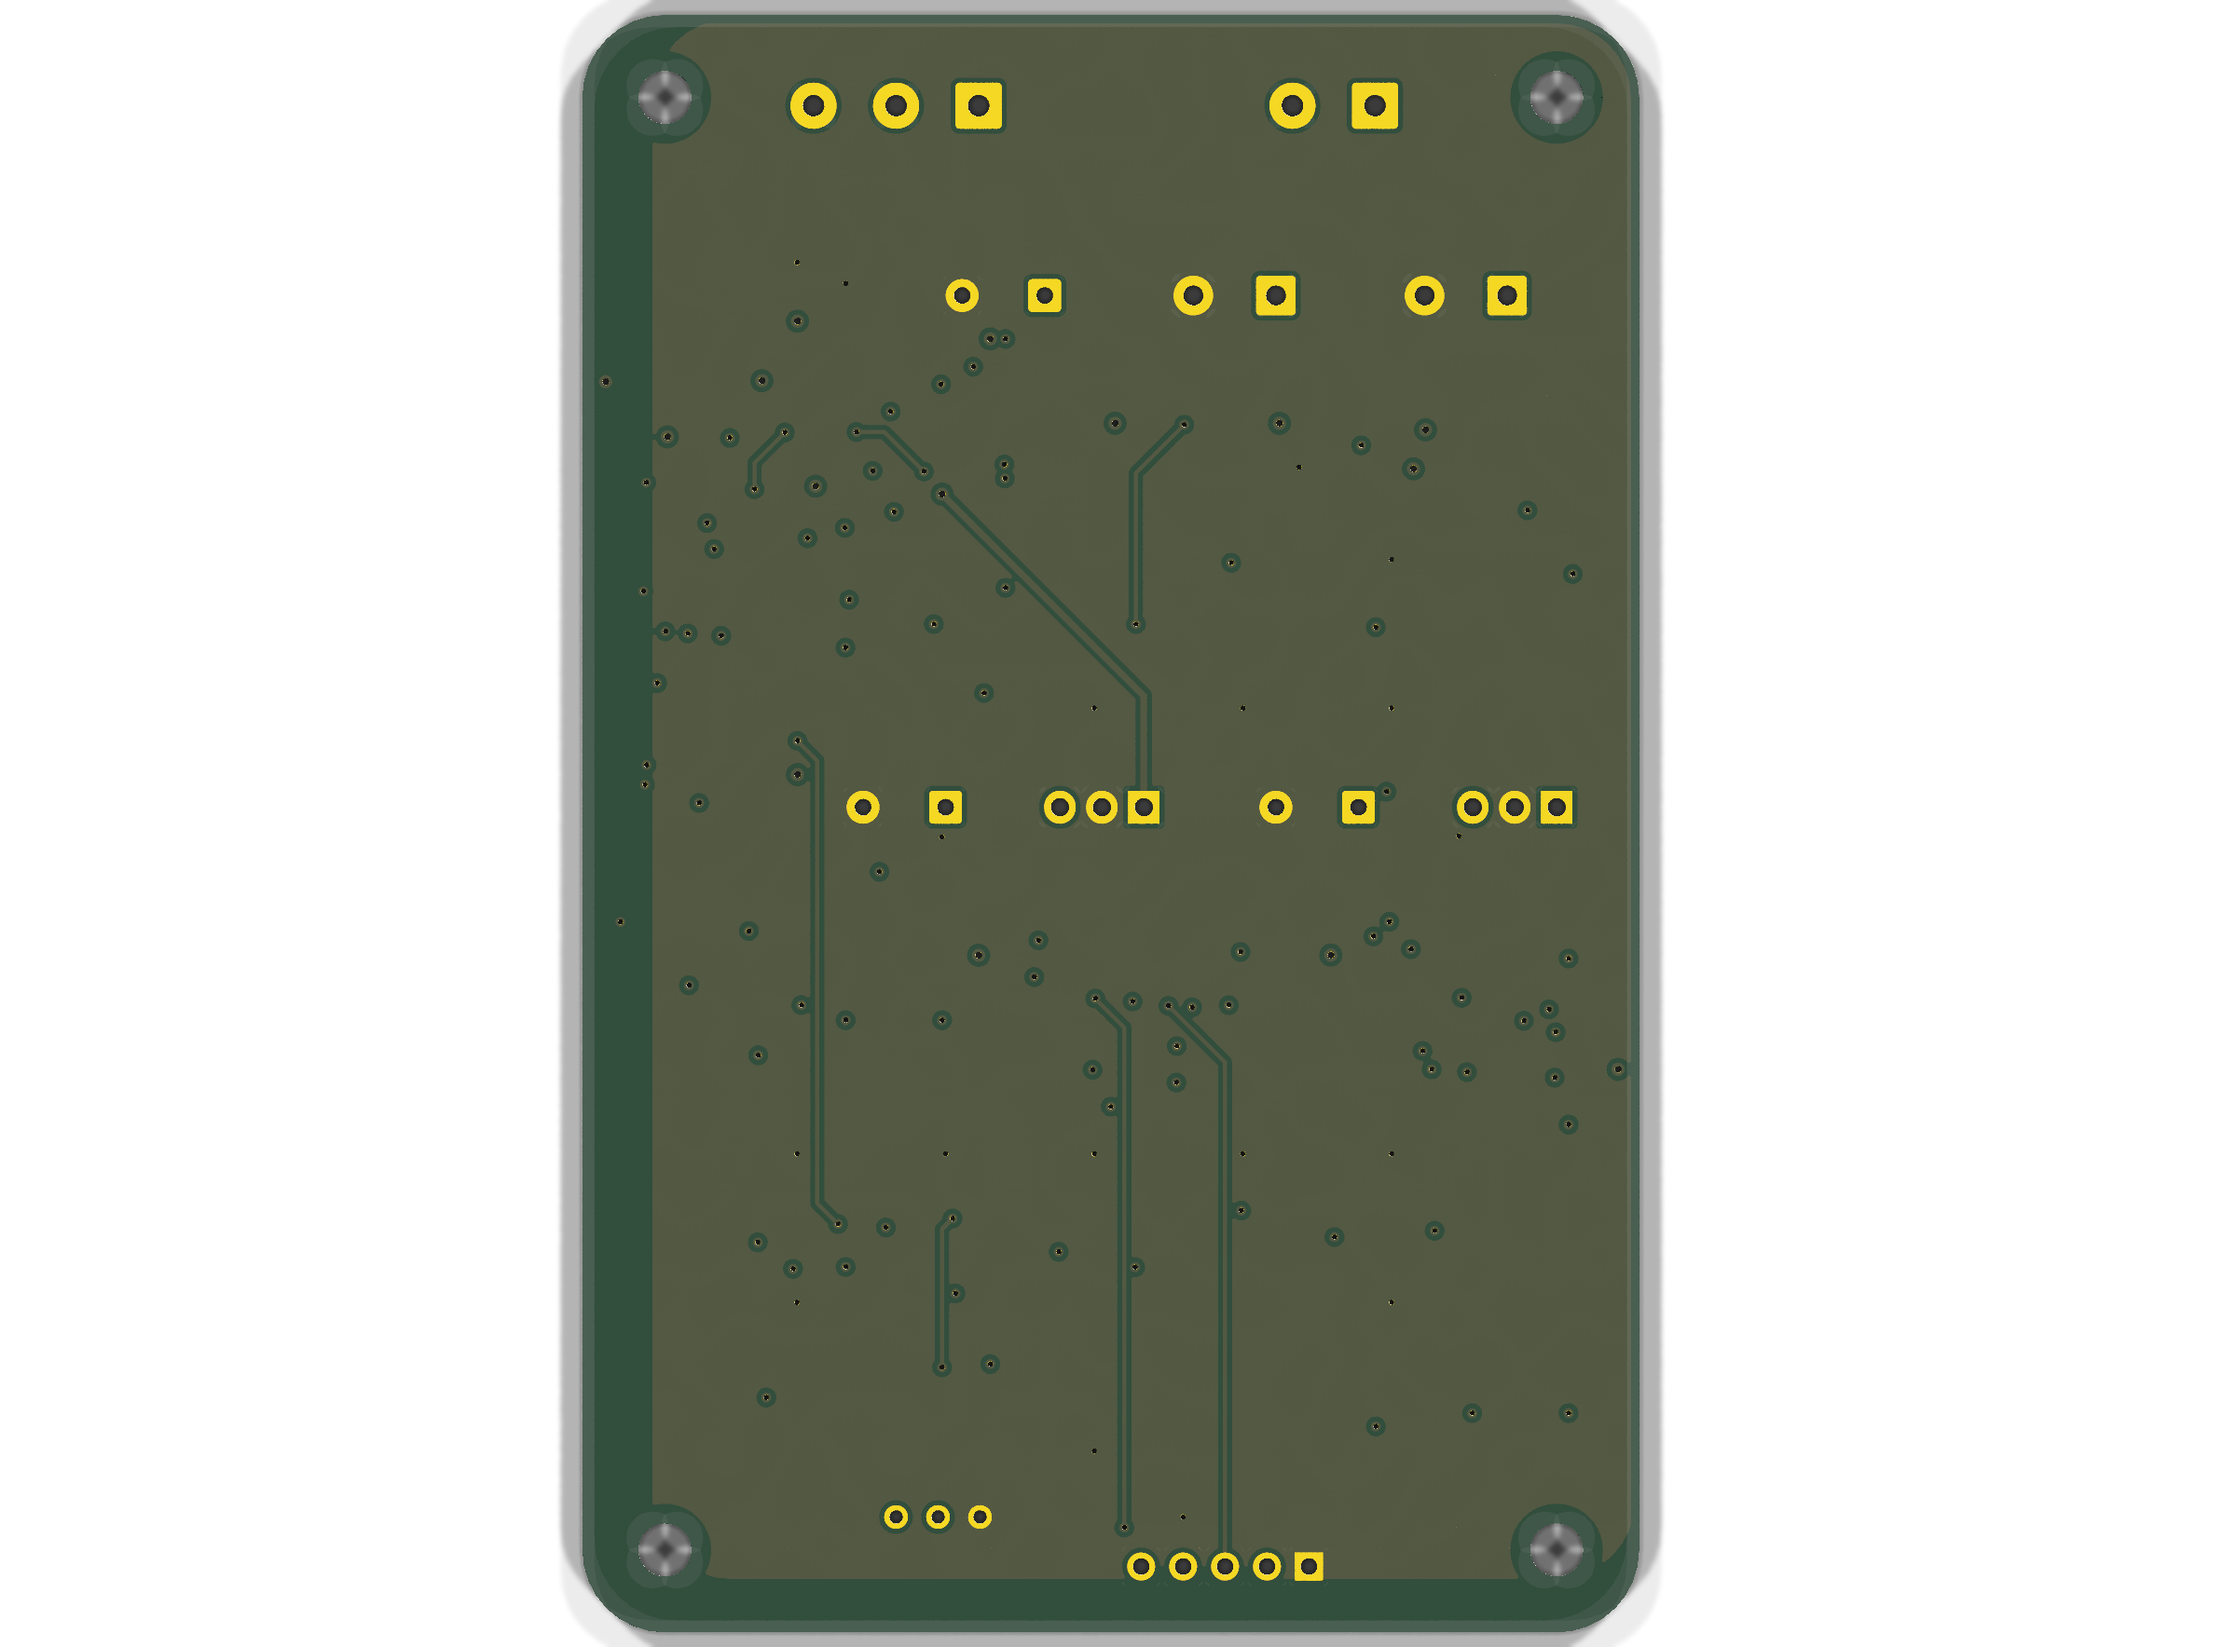
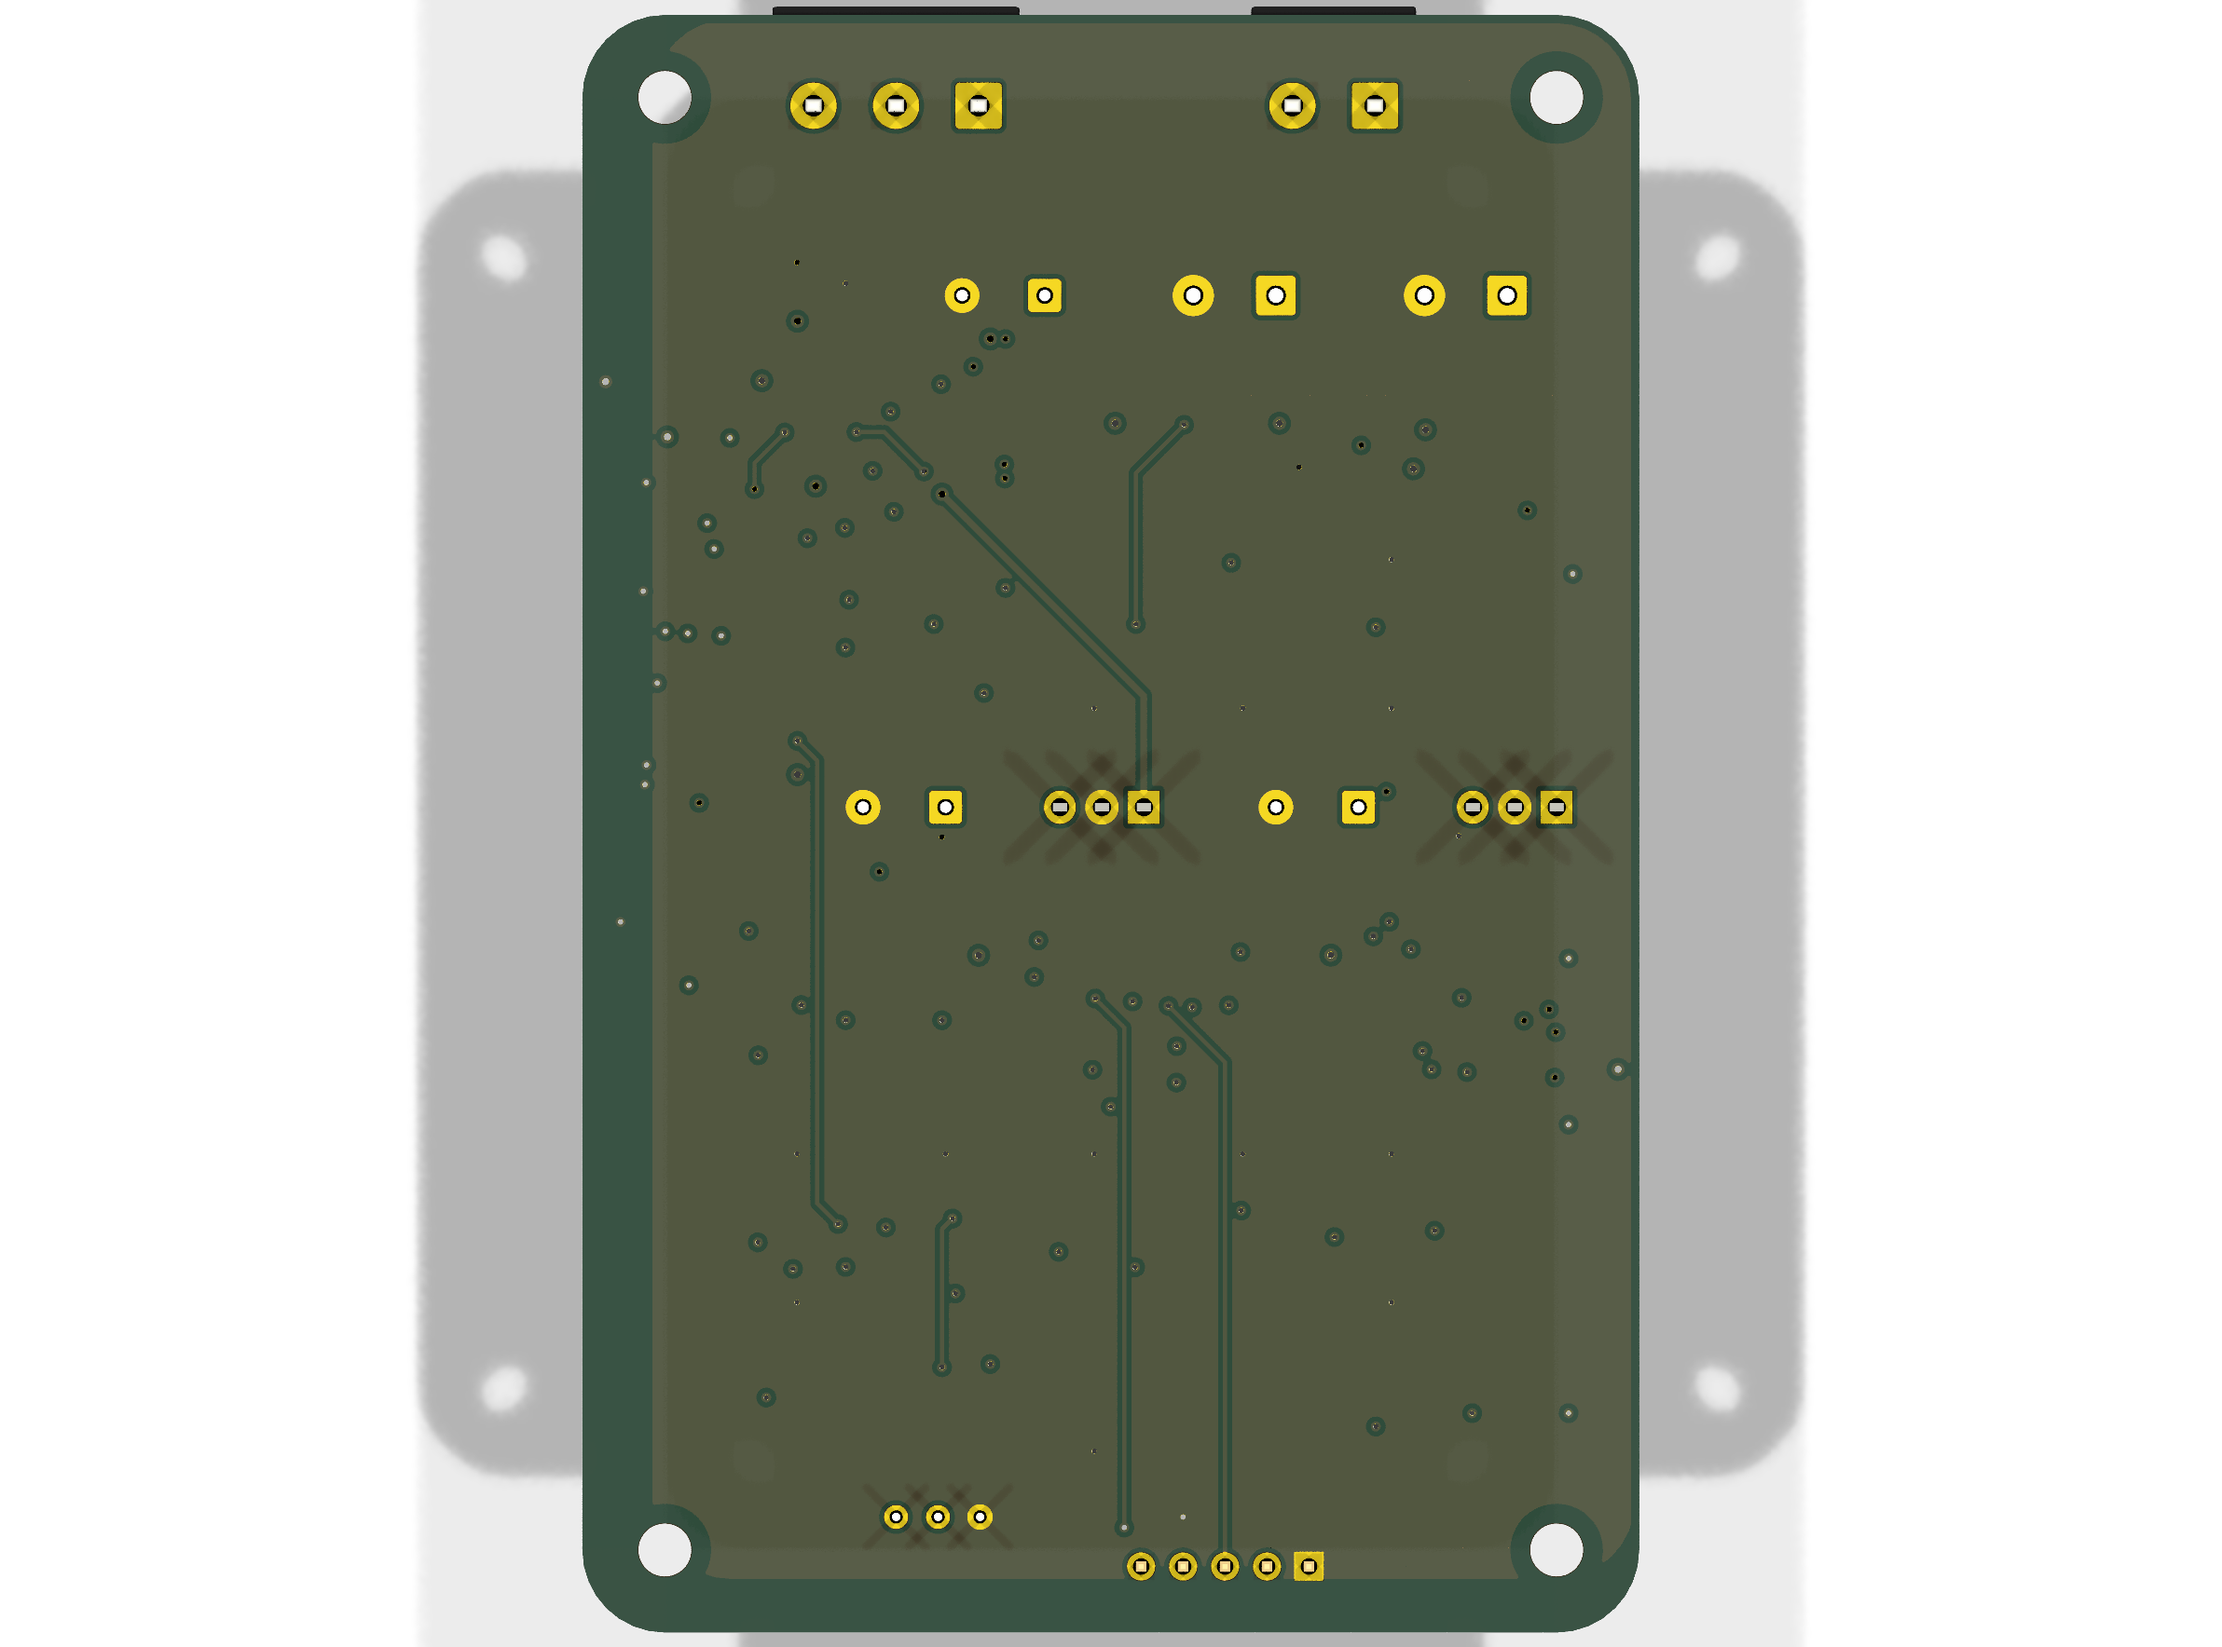
pcb(bldc_esp32_driver): real 3D renders, FET stand-in model
The previous renders were a bare board because no KiCad 3D model library was
installed (0 of 65 referenced files existed). Installed kicad-packages3d from
nix, extracted the 16 models the board references (the package ships them as
zip files named .stpZ, not zstd), and re-rendered with KICAD9_3DMODEL_DIR.

Renders now show the electrolytics, TO-220s, TSSOP/SOIC ICs, passives and the
terminal blocks on their pads -- the placement reads correctly.

Q2/Q3/Q4 now carry a stand-in DFN-8 5.55x5.2 mm model (the library has no 5x6
DFN-8); it is 1.27 mm pitch like the JY2605M, so it is representative but not
exact. U6 (ESP32-C3 SuperMini) has no library model and still renders as pads.

DRC still 0 violations, 0 unconnected.

diff --git a/PCB/bldc_esp32_driver/README.md b/PCB/bldc_esp32_driver/README.md
@@ -202,6 +202,12 @@ fanout corridor, and placing it in line with the FETs makes them unreachable.
 - KiCad writes the inner copper layers with their internal layer IDs (`Copper,L5,Inr`,
   `L7`) into the `.gbrjob` even though the gerbers themselves carry the correct `L2`/`L3`.
   `fab_package.sh` rewrites the job file so CAM cannot read a 4-layer stack as 8-layer.
+- A 3D render with no model library looks like a bare board with random pads, which reads
+  as "the placement is broken". This machine has no `kicad-packages3d` installed; the
+  models are fetched with `nix build nixpkgs#kicad.libraries.packages3d` and are shipped
+  as **zip files named `.stpZ`**, not zstd. Unzip the ones the board references and point
+  `KICAD9_3DMODEL_DIR` at the result:
+  `KICAD9_3DMODEL_DIR=<dir> kicad-cli pcb render ...`
 - The mask gerbers are emitted as **G36/G37 region fills**, not aperture flashes. Counting
   `%ADD`/`D03` in them reports zero and looks catastrophic; count `G36` instead.
 
